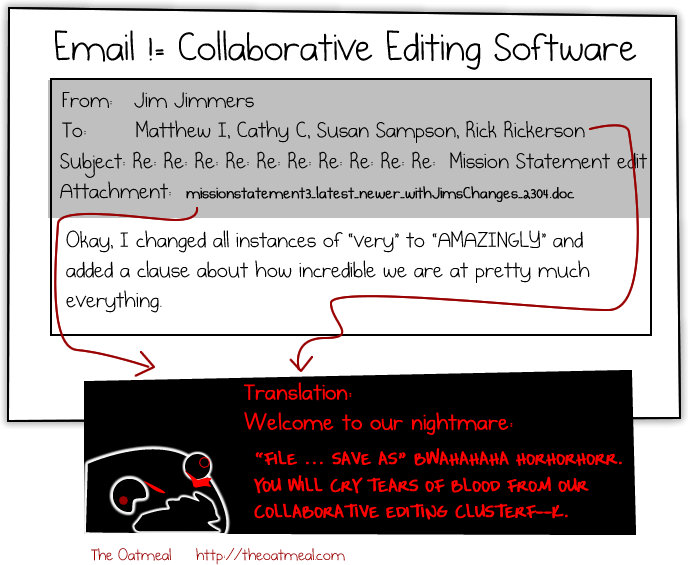
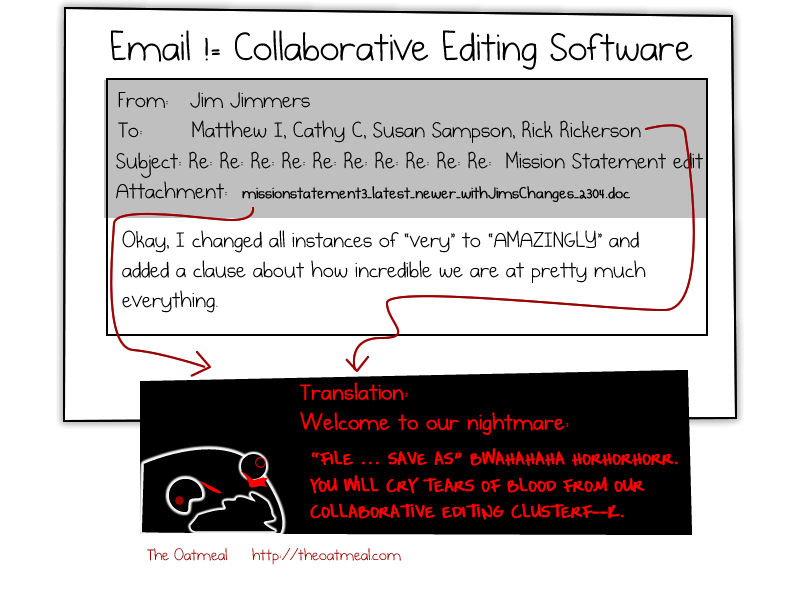
new images

diff --git a/mine.css b/mine.css
@@ -8,15 +8,12 @@
 
 
 .full-page-image img:first-child {
-  
-    margin-left: auto;
-    margin-right: auto;
-    text-align: center;
-  /*margin: none;*/
-  padding: 0;
-  width: auto;
-  /* Set the height dynamically depending on the image's current width, keeping the aspect ratio */
-  height: 738px;
+    margin: none;
+    padding: 0;
+    width: 100%;
+    /* Set the height dynamically depending on the image's current width, keeping the aspect ratio */
+    /*height: 738px;*/
+    height: auto;
 }
 
 .full-page-image img.cc {
@@ -41,7 +38,7 @@
 .full-page-image p:not(:first-child) {
   position: relative;
   opacity: .6;
-  top: -3em;
+  top: -5em;
   padding: 0.4em 0.9em 0.4em 0.9em;
   color: dark-grey;
   font-size: 1em;

diff --git a/versionning/02_scenario.md b/versionning/02_scenario.md
@@ -214,20 +214,27 @@ Image courtesy of <span xmlns:cc="http://creativecommons.org/ns#" about="http://
 
 !SLIDE  full-page-image
 
-![email](email.png)
+![email from hell](email.png)
 
-Image source <span xmlns:cc=""
-about="http://theoatmeal.com/"><a rel="cc:attributionURL"
-property="cc:attributionName"
-href="http://theoatmeal.com/comics/email">Matthew
-Inman</a> </div>
+Image courtesy of [Matthew Inman](http://theoatmeal.com/comics/email)
+
+
+
+!SLIDE full-page-image
+
+![Yay collaboration!](email_filename.png)
+
+
+!SLIDE center
+
+![](this_is_unacceptable.png)
 
 
 
 !SLIDE center
 
 # Handling concurrent changes ?
-## careful line by line review
+## careful line by line review ! 
 
 ![](files_shadow.png)
 
